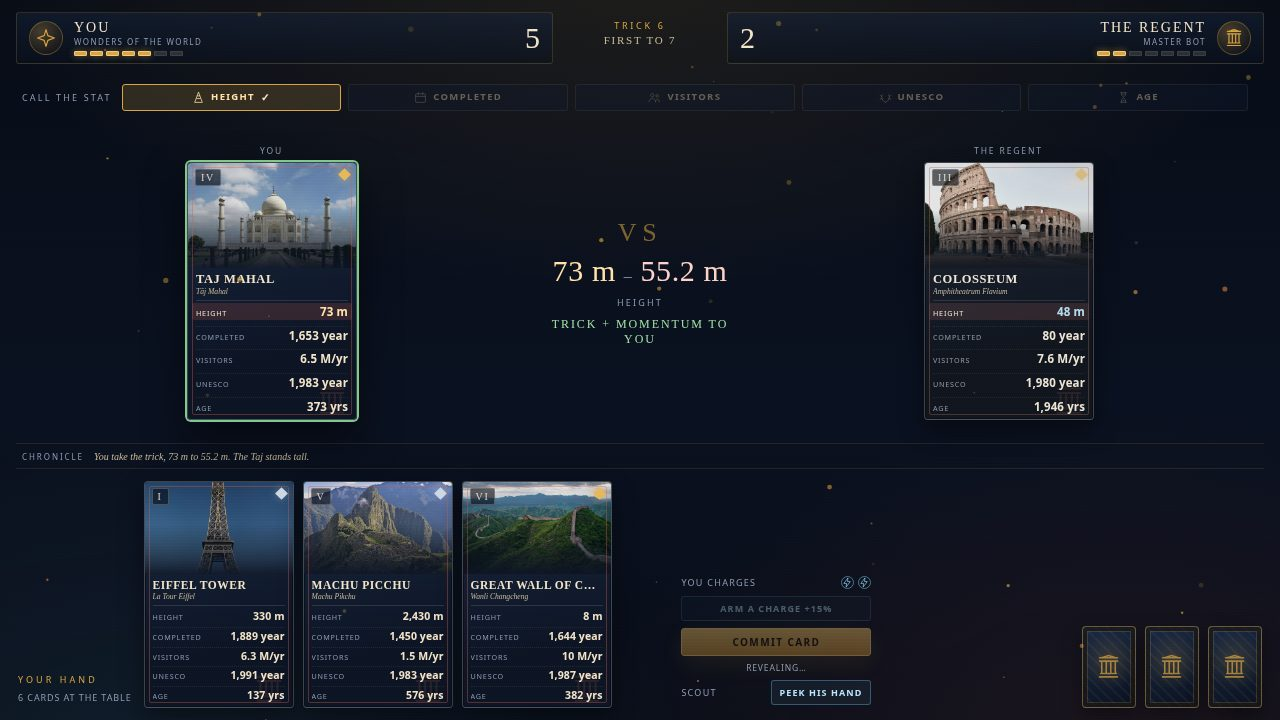
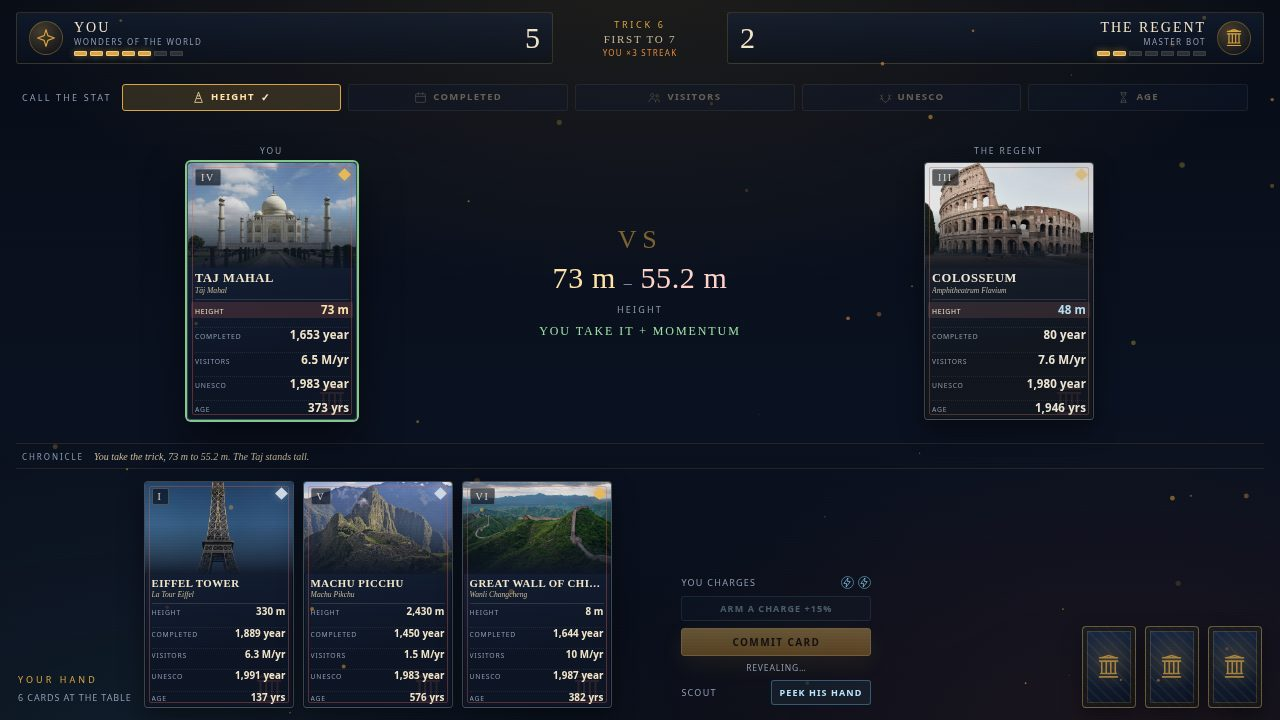
Fix local 2P bot takeover, pack navigation, signed charges and streak tracking

diff --git a/game/src/effects.js b/game/src/effects.js
@@ -1,6 +1,7 @@
 // Canvas effects: slow embers behind the title and a burst of paper confetti on a win.
-// Pure decoration; the game reads nothing back from it.
-export function createEffects(canvas) {
+// Pure decoration; the game reads nothing back from it. A seeded random keeps screenshot
+// captures identical, and freeze() stops the loop on a chosen frame.
+export function createEffects(canvas, random = Math.random) {
   const ctx = canvas.getContext('2d');
   let width = 0;
   let height = 0;
@@ -20,24 +21,24 @@ export function createEffects(canvas) {
 
   function spawnEmbers(count = 46) {
     embers = Array.from({ length: count }, () => ({
-      x: Math.random() * width,
-      y: Math.random() * height,
-      r: 0.6 + Math.random() * 2.2,
-      vy: -0.12 - Math.random() * 0.35,
-      vx: (Math.random() - 0.5) * 0.16,
-      alpha: 0.12 + Math.random() * 0.45,
-      hue: 24 + Math.random() * 24,
+      x: random() * width,
+      y: random() * height,
+      r: 0.6 + random() * 2.2,
+      vy: -0.12 - random() * 0.35,
+      vx: (random() - 0.5) * 0.16,
+      alpha: 0.12 + random() * 0.45,
+      hue: 24 + random() * 24,
     }));
   }
 
-  function frame() {
+  function step() {
     ctx.clearRect(0, 0, width, height);
     for (const ember of embers) {
       ember.x += ember.vx;
       ember.y += ember.vy;
       if (ember.y < -8) {
         ember.y = height + 8;
-        ember.x = Math.random() * width;
+        ember.x = random() * width;
       }
       ctx.beginPath();
       ctx.fillStyle = `hsla(${ember.hue}, 90%, 62%, ${ember.alpha})`;
@@ -59,6 +60,10 @@ export function createEffects(canvas) {
       ctx.fillRect(-piece.w / 2, -piece.h / 2, piece.w, piece.h);
       ctx.restore();
     }
+  }
+
+  function frame() {
+    step();
     raf = requestAnimationFrame(frame);
   }
 
@@ -70,9 +75,14 @@ export function createEffects(canvas) {
     frame();
   }
 
-  function stop() {
+  function freeze(steps = 0) {
     running = false;
     cancelAnimationFrame(raf);
+    for (let i = 0; i < steps; i += 1) step();
+  }
+
+  function stop() {
+    freeze();
     ctx.clearRect(0, 0, width, height);
   }
 
@@ -80,16 +90,16 @@ export function createEffects(canvas) {
     const colors = ['#e08a3c', '#d9a441', '#f2e4c8', '#5fb4d9', '#c9604f'];
     confetti.push(
       ...Array.from({ length: count }, () => ({
-        x: width * (0.25 + Math.random() * 0.5),
+        x: width * (0.25 + random() * 0.5),
         y: height * 0.42,
-        w: 4 + Math.random() * 7,
-        h: 8 + Math.random() * 10,
-        vx: (Math.random() - 0.5) * 7,
-        vy: -3 - Math.random() * 6,
-        rot: Math.random() * Math.PI,
-        spin: (Math.random() - 0.5) * 0.3,
-        life: 1 + Math.random() * 0.6,
-        color: colors[Math.floor(Math.random() * colors.length)],
+        w: 4 + random() * 7,
+        h: 8 + random() * 10,
+        vx: (random() - 0.5) * 7,
+        vy: -3 - random() * 6,
+        rot: random() * Math.PI,
+        spin: (random() - 0.5) * 0.3,
+        life: 1 + random() * 0.6,
+        color: colors[Math.floor(random() * colors.length)],
       })),
     );
   }
@@ -99,5 +109,5 @@ export function createEffects(canvas) {
     spawnEmbers();
   });
 
-  return { start, stop, burst };
+  return { start, stop, freeze, burst };
 }

diff --git a/game/src/main.js b/game/src/main.js
@@ -18,6 +18,7 @@ import {
   renderTitle,
 } from './render.js';
 import { stageShot } from './shots.js';
+import { createRng } from './rng.js';
 
 const app = document.getElementById('app');
 const screens = {
@@ -33,7 +34,7 @@ const statusLine = document.getElementById('status');
 const params = new URLSearchParams(window.location.search);
 const shotName = params.get('shot');
 const shotSeed = Number.parseInt(params.get('seed') ?? '', 10);
-const effects = createEffects(document.getElementById('fx'));
+const effects = createEffects(document.getElementById('fx'), shotName ? createRng(20261122) : Math.random);
 
 const state = {
   screen: 'title',
@@ -127,11 +128,11 @@ function startMatch() {
   refreshCommitter();
   render();
   announce(`${deck.name}: ${state.match.players[0].name} to call the first stat.`);
-  if (state.match.leader === 1) later(botTakeCall, 900);
+  if (state.match.mode === 'solo' && state.match.leader === 1) later(botTakeCall, 900);
 }
 
 function botTakeCall() {
-  if (!state.match || state.match.phase !== 'call') return;
+  if (!state.match || state.match.mode !== 'solo' || state.match.phase !== 'call') return;
   if (state.match.leader !== 1) return;
   const match = state.match;
   const key = botCall(match);
@@ -169,7 +170,7 @@ function doReveal() {
     state.ui.busy = false;
     refreshCommitter();
     render();
-    if (state.match.leader === 1) later(botTakeCall, 900);
+    if (state.match.mode === 'solo' && state.match.leader === 1) later(botTakeCall, 900);
   }, 2500);
 }
 
@@ -224,16 +225,12 @@ function afterCommit(committer) {
 
 function showPacks() {
   state.screen = 'pack';
+  state.result = false;
   state.packOpened = null;
   render();
 }
 
 function openPackNow() {
-  if (state.packOpened && state.collection.packs > 0) {
-    state.packOpened = null;
-    render();
-    return;
-  }
   if (state.collection.packs <= 0) return;
   state.packOpened = openAtlasPack(state.collection, Date.now());
   sound.pack();
@@ -243,6 +240,7 @@ function openPackNow() {
 
 function showCollection() {
   state.screen = 'collection';
+  state.result = false;
   render();
 }
 
@@ -429,6 +427,7 @@ async function runShot(name) {
   }
   render();
   if (name === 'victory') effects.burst(110);
+  effects.freeze(name === 'victory' ? 44 : 1);
   await waitForPaint();
   await new Promise((resolve) => setTimeout(resolve, name === 'victory' ? 650 : 120));
   window.__shotReady = true;

diff --git a/game/src/render.js b/game/src/render.js
@@ -230,11 +230,14 @@ export function renderMatch(root, match, ui) {
   const actor = match.players[ui.committer ?? 0];
   const last = match.log[match.log.length - 1] ?? '';
   const result = match.result;
+  const winnerName = (index) => match.mode === 'local'
+    ? match.players[index].name
+    : index === 0 ? 'You' : 'The Regent';
   const trickLine = result
     ? result.winner === 0
-      ? { text: result.bonus ? 'You take it + momentum' : 'You take the trick', cls: 'win' }
+      ? { text: result.bonus ? `${winnerName(0)} take${match.mode === 'local' ? 's' : ''} it + momentum` : `${winnerName(0)} take${match.mode === 'local' ? 's' : ''} the trick`, cls: 'win' }
       : result.winner === 1
-        ? { text: result.bonus ? 'Regent + momentum' : 'Regent takes the trick', cls: 'loss' }
+        ? { text: result.bonus ? `${winnerName(1)} + momentum` : `${winnerName(1)} takes the trick`, cls: 'loss' }
         : { text: 'Dead heat: no point', cls: 'tie' }
     : { text: match.phase === 'call' ? `${leader.name} calls the stat` : 'Cards are set', cls: '' };
   const busyNote = ui.busy ? 'The Regent is thinking…' : '';
@@ -255,7 +258,7 @@ export function renderMatch(root, match, ui) {
       <div class="trick-center">
         <div class="eyebrow">Trick ${match.trick}</div>
         <div class="target">First to ${match.target}</div>
-        <div class="streak">${you.streak ? `You &times;${you.streak} streak` : rival.streak ? `Regent &times;${rival.streak} streak` : ''}</div>
+        <div class="streak">${you.run ? `${you.name} &times;${you.run} streak` : rival.run ? `${rival.name} &times;${rival.run} streak` : ''}</div>
       </div>
       <div class="score-panel right">
         <span class="crest">${emblem(match.deck.emblem)}</span>

diff --git a/game/src/rules.js b/game/src/rules.js
@@ -34,6 +34,7 @@ export function newMatch({ deckId, unlockedIds, mode = 'solo', difficulty = 'ade
     discard: [],
     score: 0,
     streak: 0,
+    run: 0,
     bestStreak: 0,
     charges: 2,
     chargeUsed: false,
@@ -85,7 +86,8 @@ export function say(match, text) {
 }
 
 export function chargeValue(value) {
-  return Math.round(value * CHARGE_BONUS * 10) / 10;
+  const boosted = value < 0 ? value / CHARGE_BONUS : value * CHARGE_BONUS;
+  return Math.round(boosted * 10) / 10;
 }
 
 export function callStat(match, key) {
@@ -129,15 +131,20 @@ export function reveal(match) {
 
   match.result = { stat, sides, winner };
   if (winner === -1) {
-    for (const player of match.players) player.streak = 0;
+    for (const player of match.players) {
+      player.streak = 0;
+      player.run = 0;
+    }
     say(match, `Dead heat: ${a.value} to ${b.value}. No point, the call stands.`);
   } else {
     const player = match.players[winner];
     const other = match.players[1 - winner];
     player.score += 1;
     player.streak += 1;
-    player.bestStreak = Math.max(player.bestStreak, player.streak);
+    player.run += 1;
+    player.bestStreak = Math.max(player.bestStreak, player.run);
     other.streak = 0;
+    other.run = 0;
     say(match, `${player.name} takes the trick, ${a.value} to ${b.value}.`);
     if (player.streak === 3) {
       player.score += 1;

diff --git a/game/src/shots.js b/game/src/shots.js
@@ -29,6 +29,7 @@ function duelScene() {
   match.players[0].score = 3;
   match.players[1].score = 2;
   match.players[0].streak = 2;
+  match.players[0].run = 2;
   fillHand(match, 0, ['taj', 'eiffel', 'machu']);
   fillHand(match, 1, ['colosseum', 'wall', 'liberty']);
   match.committed = [null, null];
@@ -55,6 +56,7 @@ function winScene() {
   match.players[0].score = 7;
   match.players[1].score = 4;
   match.players[0].bestStreak = 3;
+  match.players[0].run = 3;
   match.over = true;
   match.phase = 'over';
   match.winner = 0;
@@ -72,6 +74,7 @@ function lossScene() {
   match.players[0].score = 5;
   match.players[1].score = 7;
   match.players[1].bestStreak = 3;
+  match.players[1].run = 3;
   match.over = true;
   match.phase = 'over';
   match.winner = 1;
